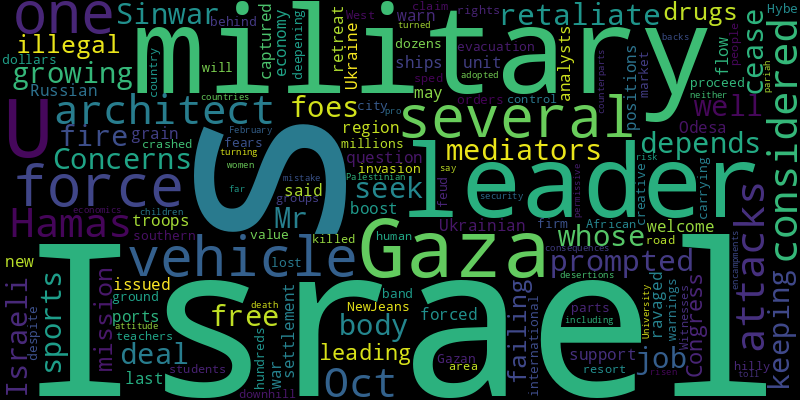
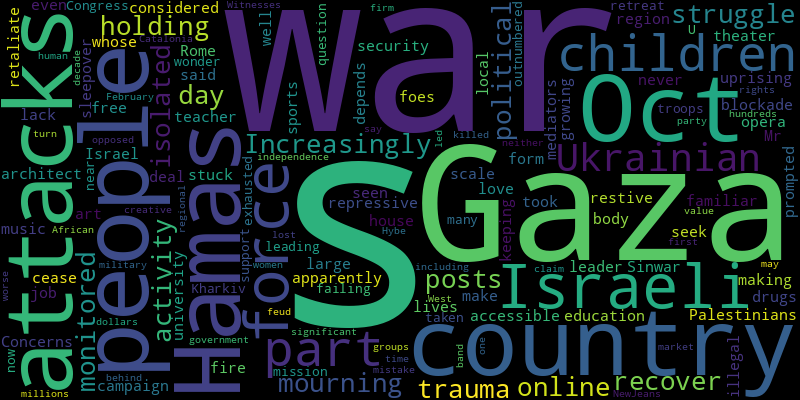
chore(bot): 😱 auto commit

diff --git a/README.md b/README.md
@@ -2,41 +2,41 @@
 Auto RSS New York Times and Generate Word Cloud
 
 ## New York Times Global News
+* Increasingly isolated over its war in Gaza, the country is holding a day of mourning as its people struggle to recover from the trauma of the Oct. 7 attacks.
+* Hamas monitored political activity, online posts, and apparently even love lives. Palestinians were stuck between an Israeli blockade and a repressive security force.
+* About 130 children took part in a sleepover at Rome’s opera house, part of a campaign to make up for a lack of music education by making the theater and the art form more familiar and accessible.
+* “I have never seen such a large-scale uprising” in the restive region, a teacher at a local university said.
 * Hamas’s leader in Gaza is considered an architect of the Oct. 7 attacks that prompted Israel to retaliate. As mediators seek a cease-fire, a deal depends on Mr. Sinwar as well as his Israeli foes.
 * Concerns are growing that the body whose job is keeping sports free of illegal drugs is failing at that mission, leading Congress to question U.S. support.
-* A Ukrainian military unit said that its troops were forced to retreat from several positions and that one settlement had been captured by Russian forces.
-* The flow of grain ships through ports in the Odesa region is a welcome boost for Ukraine’s war-ravaged economy. But analysts warn it may not last.
-* Israel’s military has issued new evacuation orders for parts of the southern Gazan city, deepening fears that it will proceed with a ground invasion despite international warnings.
+* With Ukrainian troops outnumbered, exhausted and now in retreat near Kharkiv, many Ukrainians wonder if the war has taken a significant turn for the worse.
+* For the first time in over a decade, the regional government in Catalonia may be led by a party opposed to independence.
 * The firm Hybe has lost hundreds of millions of dollars in market value because of a feud with the creative force behind the band NewJeans.
-* The vehicle was carrying dozens of teachers and students when it sped out of control on a downhill road and crashed into several vehicles in a hilly resort area.
 * Witnesses and human rights groups claim the West African country’s military killed more than 220 people, including women and children, in February. It was neither a mistake nor a one-off, they say.
-* As the death toll in Gaza has risen, countries have turned their backs on Israel. The consequences of those desertions, from security to economics, risk turning Israel into a pariah.
-* University leaders have so far adopted a more permissive attitude to pro-Palestinian encampments than their U.S. counterparts. Here’s why.
 
 ![Global](./global.png)
 ## New York Times United States News
-* Counterprotesters attacked a pro-Palestinian encampment for several hours without police intervention, and none were arrested. Now, the police response is under investigation.
-* The first big pro-Israel counter demonstration was on Sunday in Los Angeles, home to large Israeli and Jewish populations. More are planned in the coming days.
-* The footage shows that the airman was holding a gun when he opened his door to a deputy, who then began firing. The airman’s family has called the killing unjustified.
+* The Justice companies have long had a reputation for not paying their debts. But that may be catching up to them.
 * Organizations that describe themselves as churches are providing psychedelics to followers. The compounds, which show promise as treatments for depression, are illegal in most settings.
-* The contest between Angela Alsobrooks, the Prince George’s County executive, and Representative David Trone has grown tighter as they vie to take on Larry Hogan, the G.O.P. ex-governor.
-* Bernie Moreno, the Republican challenging Senator Sherrod Brown in Ohio, tells a riches-to-rags-to-riches tale. But the reality isn’t so tidy.
-* Former President Donald J. Trump held a rally in Wildwood, N.J., on Saturday, declaring that his campaign would “officially play” in a state he has lost twice by double digits.
-* After weeks of tumult over protests, many college administrators prepared themselves for disruptions. But several ceremonies unfolded without major incident.
-* Demonstrators chanted and gathered in one spot in the stadium, interrupting the proceedings before leaving.
-* Eight years after helping Donald J. Trump get elected — and four years after being released from prison — the longtime political operative was back as a volunteer to advise the G.O.P. convention.
+* The first big pro-Israel counter demonstration was on Sunday in Los Angeles, home to large Israeli and Jewish populations. More are planned in the coming days.
+* Counterprotesters attacked a pro-Palestinian encampment for several hours without police intervention, and none were arrested. Now, the police response is under investigation.
+* The storm interfered with navigational systems used in tractors and other farming equipment, leaving some farmers temporarily unable to plant their crops.
+* Smoke from wildfires drifted south over the weekend.
+* A federal appeals court condemned the “stark and egregious” violation of Damon Landor’s religious freedom. But it said he could not sue the prison officials.
+* A crowded race for Tuesday’s House primary features a Jan. 6 Capitol Police officer and veteran lawmakers, and could be a test of the “save democracy” movement.
+* Local law enforcement went in just a couple of hours after a protest encampment went up.
+* The grant is the latest federal award in a series stemming from the CHIPS and Science Act meant to ramp up domestic production of vital semiconductors.
 
 ![US](./usnews.png)
 ## New York Times Asia News
-* A Ukrainian military unit said that its troops were forced to retreat from several positions and that one settlement had been captured by Russian forces.
+* “I have never seen such a large-scale uprising” in the restive region, a teacher at a local university said.
+* Heavy rain on the island of Sumatra caused torrents of rock and ash to flow down a volcano and into nearby towns. At least 17 people were still missing.
+* The politically fraught move comes as part of a broader push in China to stem losses at subsidized public services.
+* Also, fighting is raging in northern Gaza.
+* With Ukrainian troops outnumbered, exhausted and now in retreat near Kharkiv, many Ukrainians wonder if the war has taken a significant turn for the worse.
 * Mr. Musk has built a constellation of like-minded heads of state — including Argentina’s Javier Milei and India’s Narendra Modi — to push his own politics and expand his business empire.
 * The vehicle was carrying dozens of teachers and students when it sped out of control on a downhill road and crashed into several vehicles in a hilly resort area.
-* Concerns are growing that the body whose job is keeping sports free of illegal drugs is failing at that mission, leading Congress to question U.S. support.
 * The firm Hybe has lost hundreds of millions of dollars in market value because of a feud with the creative force behind the band NewJeans.
+* Concerns are growing that the body whose job is keeping sports free of illegal drugs is failing at that mission, leading Congress to question U.S. support.
 * This year’s edition of the annual film festival features a prominent presence of Indian stories and storytellers that celebrates the country’s independent cinema.
-* Heavy seasonal rains have set off floods in the northern province of Baghlan and in at least three other provinces.
-* In the heart of this megacity, an industrial site has been turned into an oasis for residents (and birds, bats and mosquito-eating dragonflies).
-* The administration could raise tariffs on electric vehicles from China to 100 percent in an attempt to protect American auto manufacturers.
-* The Zeyrek Cinili Hamam, an early-Ottoman-era masterpiece, is restored to its original use as a public bathhouse.
 
 ![Asian](./asian.png)
